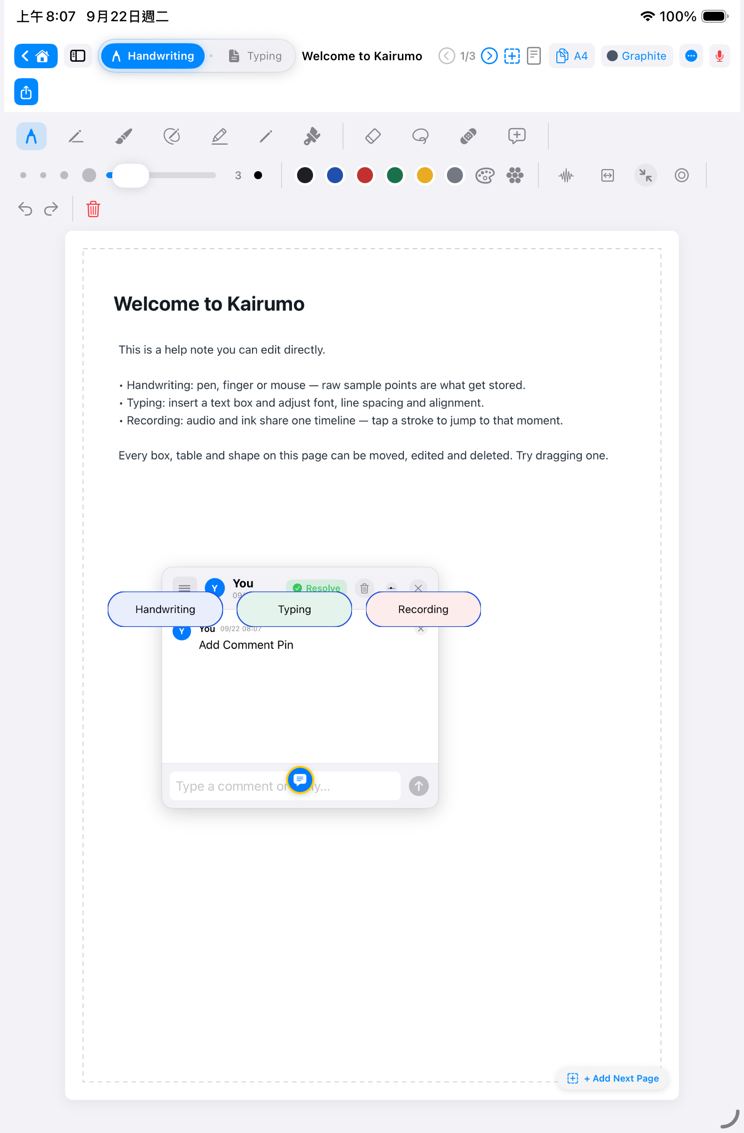
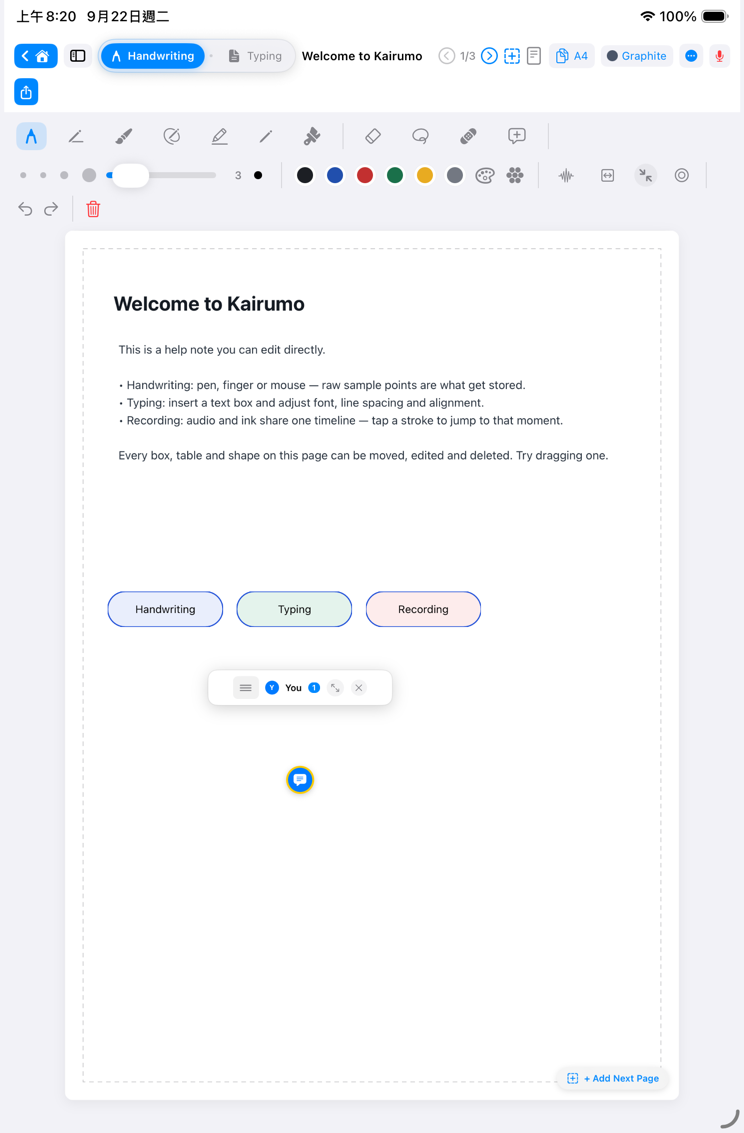
fix(apple): 討論串面板的收合與關閉也點不到 —— 同一個 zIndex 問題
你要我先查 pin_min 那張為什麼按了沒反應。查出來是同一個形狀：
`CommentThreadDialog` 也沒有設 zIndex，預設為 0，整個面板被壓在畫布（1）
與物件層（2）底下。

面板畫得出來，所以看起來一切正常 —— 但只要它的按鈕和頁面上的物件重疊，
點下去就打到物件。這一頁剛好有三顆膠囊在那個位置，於是「收合」與「關閉」
兩顆都沒反應。**使用者的感受是：這個對話框關不掉。**

補 `.zIndex(4)`（在圖釘放置層 3 之上 —— 它是面板，本來就該蓋住一切）。
模擬器驗證：面板現在蓋在膠囊上面，收合鍵按下去真的縮成一條小列。

兩個 zIndex bug 加起來，討論圖釘這個功能等於**從放不上去到關不掉，
整條路都是斷的**。而它們都不是測試抓得到的東西 —— 程式碼看起來完全正常。

diff --git a/apple/Sources/NotebookEditorView.swift b/apple/Sources/NotebookEditorView.swift
@@ -3463,6 +3463,14 @@ public struct NotebookEditorView: View {
                     x: min(max(170, pin.x), 650),
                     y: min(max(150, pin.y - 120), currentPageHeight - 120)
                 )
+                // **與圖釘的點擊層同一個問題**：沒有 zIndex 就預設為 0，
+                // 整個討論串面板都被壓在畫布（1）與物件層（2）底下。
+                // 面板畫得出來，但只要它的按鈕和頁面上的物件重疊，
+                // 點下去就會打到物件 —— 症狀是「收合」與「關閉」按了沒反應，
+                // 而使用者只會覺得這個對話框關不掉。
+                //
+                // 4 在圖釘放置層（3）之上：它是面板，本來就該蓋住一切。
+                .zIndex(4)
             }
 
             // 放置討論圖釘模式互動層。
